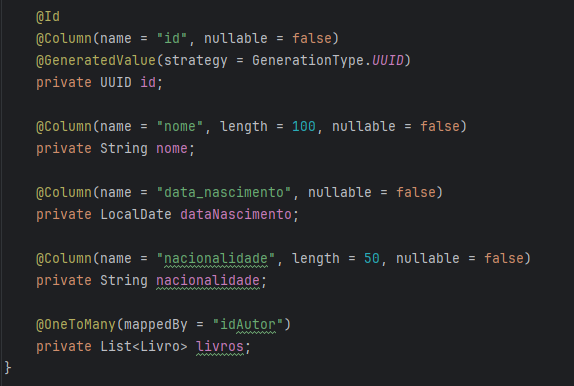
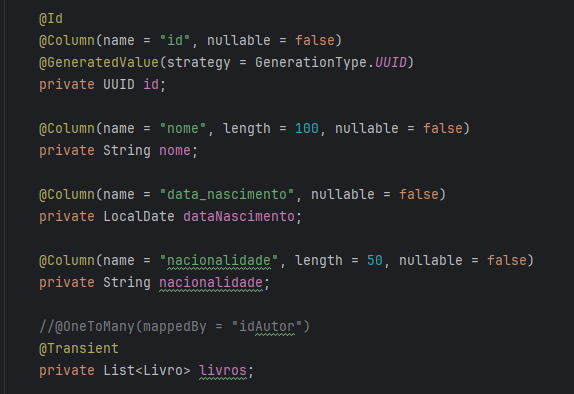
Desenvolvendo projeto, classe e metodos teste

diff --git a/src/test/java/com/github/Hugoftf/Spring/JPA/repository/AutorRepositoryTest.java b/src/test/java/com/github/Hugoftf/Spring/JPA/repository/AutorRepositoryTest.java
@@ -1,0 +1,97 @@
+package com.github.Hugoftf.Spring.JPA.repository;
+
+import com.github.Hugoftf.Spring.JPA.model.Autor;
+import org.junit.jupiter.api.Test;
+import org.springframework.beans.factory.annotation.Autowired;
+import org.springframework.boot.test.context.SpringBootTest;
+
+import java.time.LocalDate;
+import java.time.Month;
+import java.util.List;
+import java.util.UUID;
+
+@SpringBootTest
+public class AutorRepositoryTest {
+
+    @Autowired
+    private AutorRepository autorRepository;
+
+
+    @Test
+    public void salvarTest() {
+        Autor autor =  new Autor();
+        autor.setNome("Stheffanny");
+        autor.setNacionalidade("brasileira");
+        autor.setDataNascimento(LocalDate.of(2005, Month.APRIL, 29));
+
+        var autorSalvo = autorRepository.save(autor);
+
+        System.out.println("Autor: " + autorSalvo);
+
+    }
+
+    @Test
+    public void atualizarAutorTest(){
+
+      var possivelAutor =  autorRepository.findById(UUID.fromString(
+              "ff2be092-d680-4078-bc93-6b3740e245eb"));
+
+        if (possivelAutor.isPresent()){
+            System.out.println("Dados do autor:");
+
+            Autor autor = possivelAutor.get();
+            System.out.println(autor);
+
+            autor.setDataNascimento(LocalDate.of(1999, Month.DECEMBER, 19));
+            autorRepository.save(autor);
+
+            System.out.println("Dados de autor atualizado");
+            System.out.println(autor);
+        }
+        else{
+            System.out.println("Autor não encontrado");
+        }
+
+    }
+
+    @Test
+    public void encontrarTodosAutor(){
+        List<Autor> listDeAutor = autorRepository.findAll();
+        listDeAutor.forEach(System.out::println);
+    }
+
+    @Test
+    public void contagemDeAutor(){
+        System.out.println("Contagem de autor: " + autorRepository.count());
+    }
+
+    @Test
+    public void deletarAutorPorID(){
+        var id = UUID.fromString(
+                "79122f7f-ae90-4351-a87e-673ec35a8fdf");
+        autorRepository.deleteById(id);
+    }
+
+
+    @Test
+    public void deleteAutor(){
+
+        var possivelAutor = autorRepository.findById(UUID.fromString(
+                "79122f7f-ae90-4351-a87e-673ec35a8fdf"));
+
+        if (possivelAutor.isPresent()){
+            System.out.println("Dados do autor");
+            Autor autorEncontrado = possivelAutor.get();
+            System.out.println(autorEncontrado);
+
+            autorRepository.delete(autorEncontrado);
+            System.out.println("Autor deletado com sucesso");
+        }
+        else{
+            System.out.println("Autor não encontrado!");
+        }
+
+    }
+}
+
+

diff --git a/src/main/java/com/github/Hugoftf/Spring/JPA/SpringJpaApplication.java b/src/main/java/com/github/Hugoftf/Spring/JPA/SpringJpaApplication.java
@@ -12,19 +12,8 @@ import java.time.Month;
 public class SpringJpaApplication {
 
 	public static void main(String[] args) {
-		var context = SpringApplication.run(SpringJpaApplication.class, args);
-		var autoRepositoryBean = context.getBean(AutorRepository.class);
-		salvar(autoRepositoryBean);
+		SpringApplication.run(SpringJpaApplication.class, args);
+
 	}
 
-	public static void salvar(AutorRepository autorRepository){
-		Autor autor =  new Autor();
-		autor.setNome("Hugo");
-		autor.setNacionalidade("brasileiro");
-		autor.setDataNascimento(LocalDate.of(1998, Month.JUNE, 16));
-
-		var autorSalvo = autorRepository.save(autor);
-
-		System.out.println("Autor: " + autorSalvo);
-	}
 }

diff --git a/src/main/java/com/github/Hugoftf/Spring/JPA/model/Autor.java b/src/main/java/com/github/Hugoftf/Spring/JPA/model/Autor.java
@@ -25,7 +25,8 @@ public class Autor {
     @Column(name = "nacionalidade", length = 50, nullable = false)
     private String nacionalidade;
 
-    @OneToMany(mappedBy = "idAutor")
+    //@OneToMany(mappedBy = "idAutor")
+    @Transient
     private List<Livro> livros;
 
     public UUID getId() {
